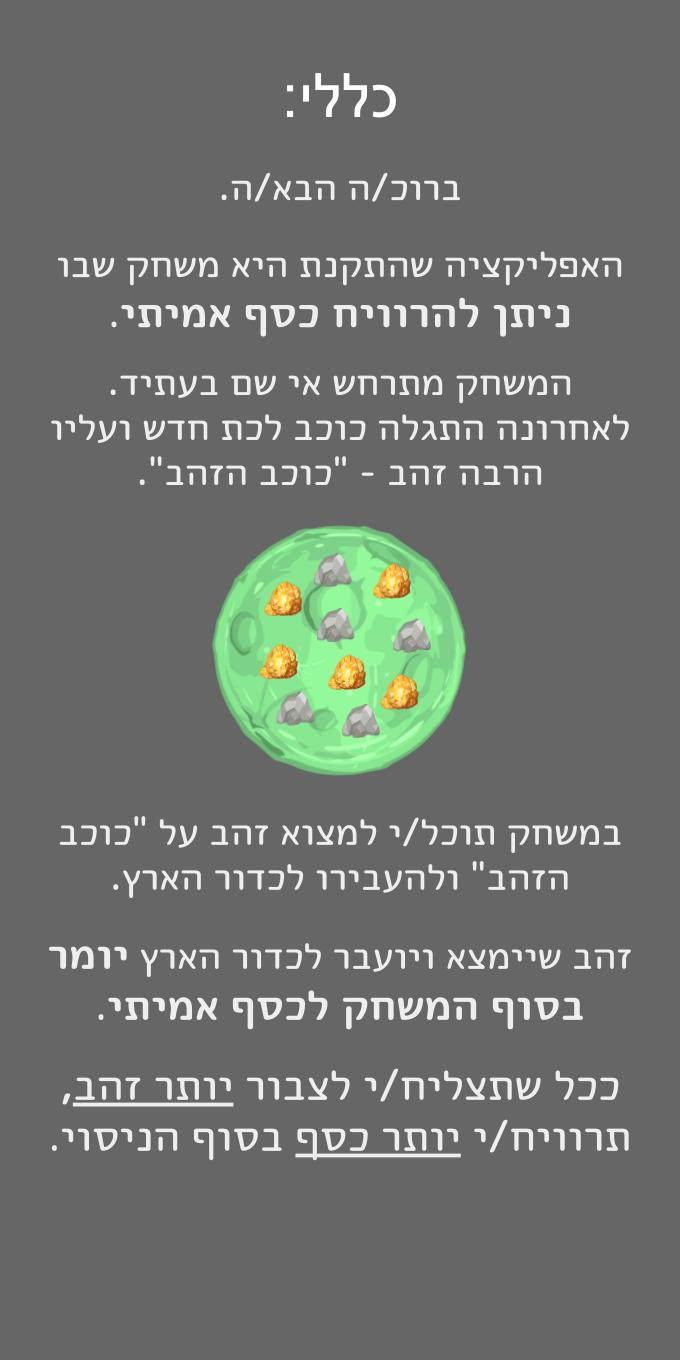
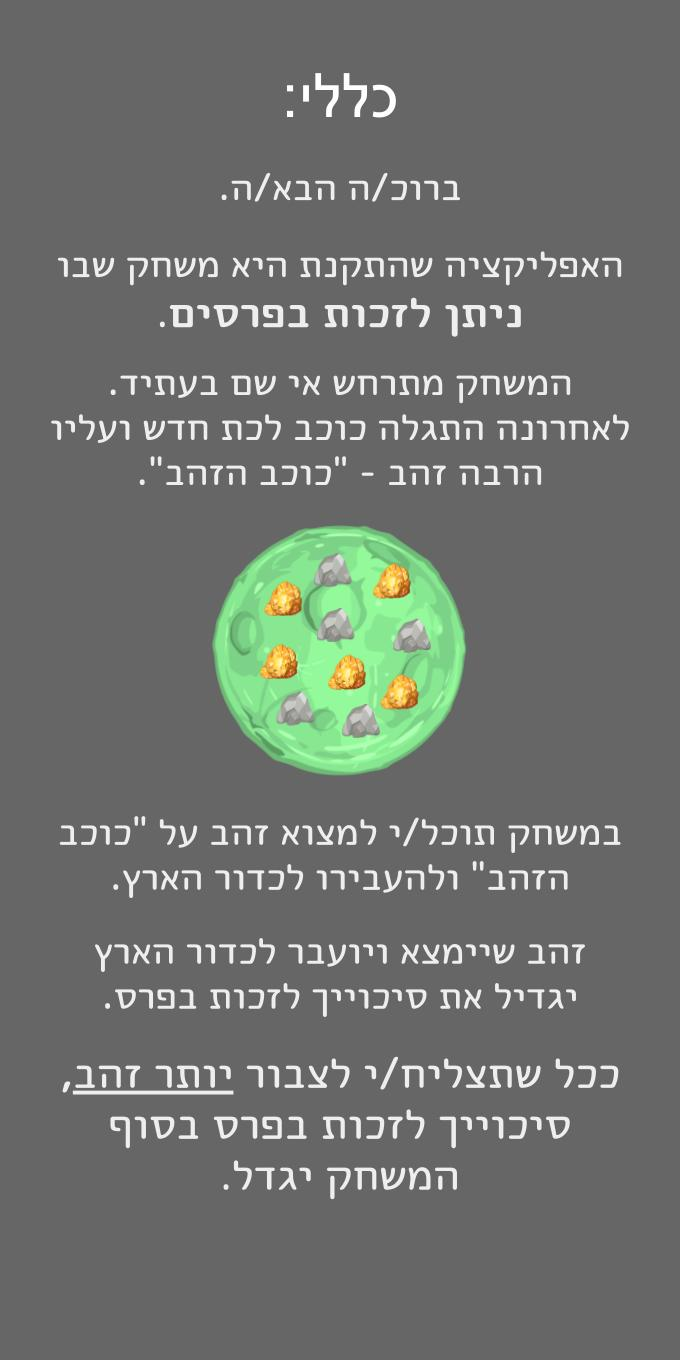
instructions and test questions adjusted to the project and to Alpha rewards (t-shirts)

Changed region(s): [[0.0618, 0.6794, 0.9265, 0.8956], [0.1853, 0.2162, 0.8338, 0.2471]]

diff --git a/settings.js b/settings.js
@@ -202,11 +202,11 @@ window.app_settings = {
 			distractor_3: 'כן, העלות משתנה בכל פעם.',
 		},
 		2: {
-			question: 'האם הסיכוי למצוא זהב משתנה בזמנים מסויימים?',
-			correct_answer: 'לא, הסיכוי למצוא זהב זהה תמיד.',
-			distractor_1: 'הסיכוי למצוא זהב משתנה כל הזמן.',
+			question: 'האם הסיכויים למצוא זהב משתנה בפרקי זמן מסויימים במשחק?',
+			correct_answer: 'לא, הסיכויים לא משתנים לאורך ימי המשחק.',
+			distractor_1: 'הסיכוי למצוא זהב משתנה כל יום.',
 			distractor_2: 'הסיכוי למצוא זהב משתנה כשמעונן ואין אפשרות לראות אם מצאנו זהב.',
-			distractor_3: 'אם לאחרונה מצאנו הרבה זהב הסיכוי למצוא עוד זהב קטן יותר ולהפך.',
+			distractor_3: 'אם בכניסות האחרונות מצאנו הרבה פעמים זהב אין סיכוי למצוא עוד זהב.',
 		},
 		3: {
 			question: 'מה קורה אם המחסן מלא?',
@@ -244,11 +244,11 @@ window.app_settings = {
 			distractor_3: 'אין לי אפשרות לצבור את הזהב במחסן.',
 		},
 		8: {
-			question: 'כיצד אוכל להרוויח כסף אמיתי?',
-			correct_answer: 'פשוט להיכנס לאפליקציה כדי לחפש זהב. במידה ומצאתי זהב ויש מקום במחסן, הזהב יילקח לכדור הארץ ויומר לכסף אמיתי. ככל שאצבור יותר זהב ארוויח יותר כסף.',
-			distractor_1: 'אין אפשרות להרוויח כסף אמיתי במשחק.',
-			distractor_2: 'פשוט להיכנס לאפליקציה כדי לחפש אבנים. במידה ומצאתי אבנים ויש מקום במחסן, האבנים יילקחו לכדור הארץ ויומרו לכסף אמיתי.',
-			distractor_3: 'להיכנס לאפליקציה ולהמתין בה זמן רב ככל שניתן לפני שאסגור אותה. ככל שהיא פתוחה יותר זמן ברצף, ארוויח יותר. ',
+			question: 'כיצד אוכל לזכות בחולצה?',
+			correct_answer: 'פשוט להיכנס לאפליקציה כדי לחפש זהב. במידה ומצאתי זהב ויש מקום במחסן, הזהב יילקח לכדור הארץ ויגדיל את סיכויי לזכות. ככל שאצבור יותר זהב סיכויי לזכות יגדלו.',
+			distractor_1: 'אין אפשרות לזכות במשהו במשחק.',
+			distractor_2: 'פשוט להיכנס לאפליקציה כדי לחפש אבנים. במידה ומצאתי אבנים ויש מקום במחסן, האבנים יילקחו לכדור הארץ ויגדילו את סיכויי לזכות.',
+			distractor_3: 'להיכנס לאפליקציה ולהמתין בה זמן רב ככל שניתן לפני שאסגור אותה. ככל שהיא פתוחה יותר זמן ברצף, סיכויי יגדלו.',
 		},
 		9: {
 			question: 'מה מהבאים לא נכון לגבי מערות עתירות זהב שאני עשוי/ה להיתקל בהן לפעמים?',
@@ -259,7 +259,7 @@ window.app_settings = {
 		},
 		10: {
 			question: 'מהו משך המשחק?',
-			correct_answer: 'משך המשחק אינו קבוע מראש. הוא אורך בין ימים אחדים לחודש.',
+			correct_answer: 'משך המשחק אינו קבוע מראש. הוא אורך בין ימים אחדים לשבוע.',
 			distractor_1: 'יום אחד.',
 			distractor_2: 'שבוע.',
 			distractor_3: 'חודש.',
